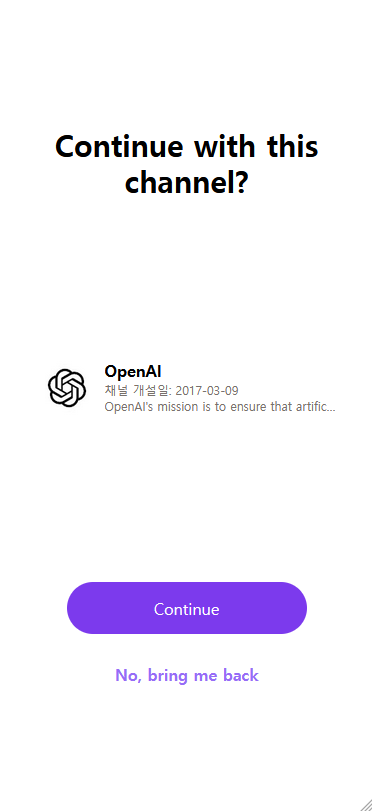
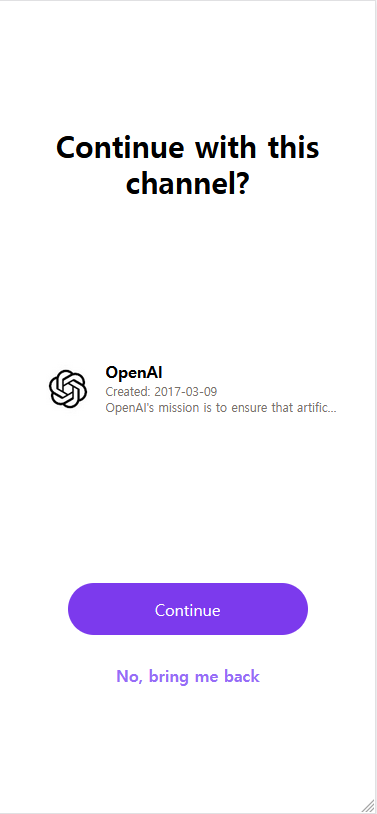
Update

diff --git a/src/main/resources/templates/searchResult.html b/src/main/resources/templates/searchResult.html
@@ -24,7 +24,7 @@
             <h5 class="font-bold truncate text-ellipsis" th:text="${profile.title}"></h5>
           </div>
           <div class="flex space-x-2 pl-2">
-            <p class="text-xs text-stone-500" >채널 개설일: <span th:text="${profile.publishedAt}"></span></p>
+            <p class="text-xs text-stone-500" >Created: <span th:text="${profile.publishedAt}"></span></p>
           </div>
           <div class="pl-2">
             <p class="text-xs text-stone-500 truncate text-ellipsis" th:text="${profile.description}"></p>
